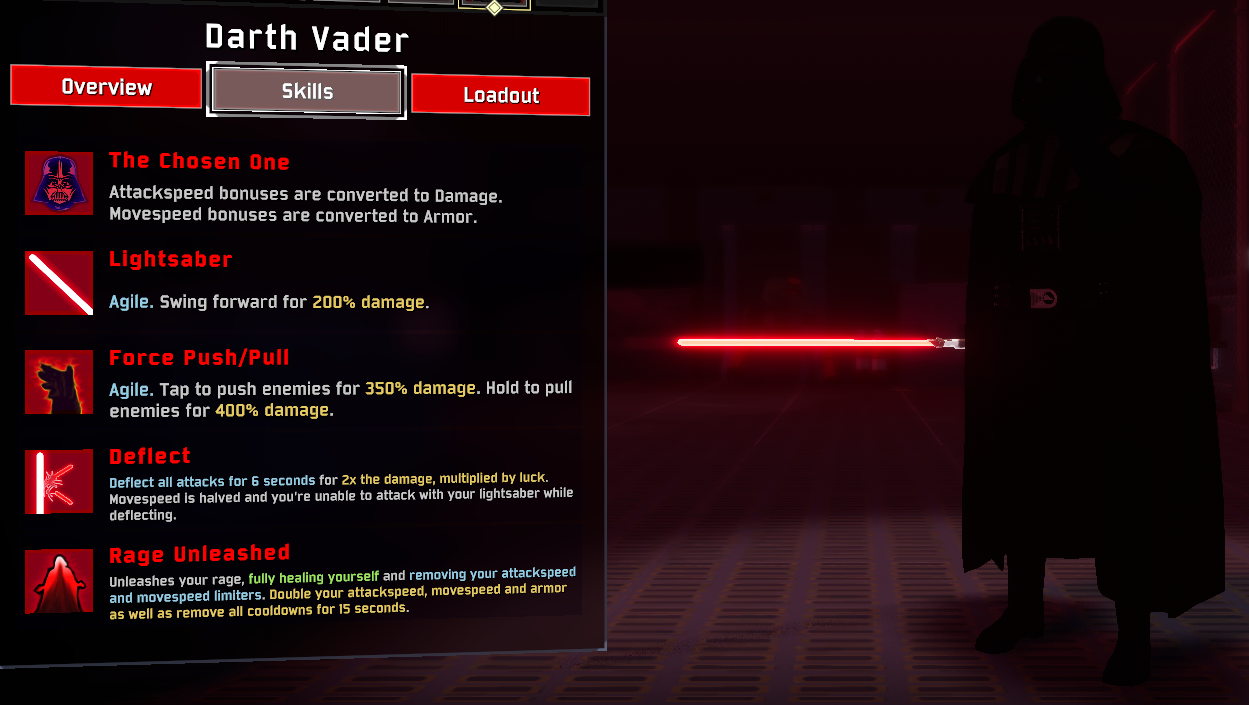
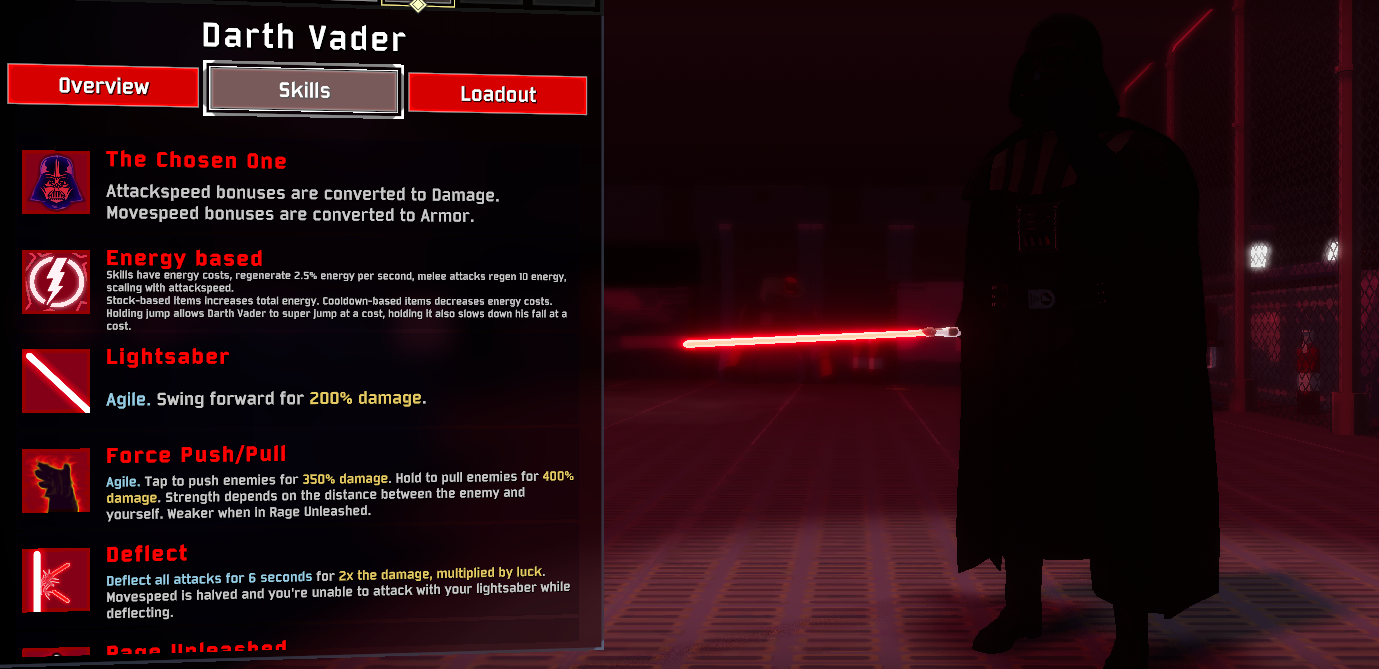
readme

diff --git a/Uploadstuff/README.md b/Uploadstuff/README.md
@@ -46,38 +46,25 @@ If you enjoy our work, support us on Ko-fi!
 
 ## Latest Changelog, Next update(s)
 
-- 1.1.2
-  - Entrance theme no longer goes between left and right ears, also ends when character is changed.
-  - Death sound should now play.
-  - Added exhale for his breathing, adjusted time for breath sounds from 5s -> 3s as it now includes inhaling and exhaling.
-  - Networked Force push/pull so non-hosts can use it in multiplayer.
-  - Added clarity on how Force push/pull works- the strength depends on the distance between yourself and the enemy. It is also weaker when in Rage Unleashed. 
-  - Force push/pull now properly pulls all enemies towards you and away from you with the correct height value, previously it was a limited height change. 
-  - Force push/pull animation timing matches the effect.
-- 1.1.1
-  - Updated description for primary to properly say reduces all cooldowns by 1 second.
-  - Updated readme.
-- 1.1.0
-  - Changed grip to Darth Vader's grip.
-  - Melee attacks now reduce cooldown for all skills (this is to exemplify his juggernaut playstlye), in exchange his skills have longer cooldowns. If you're constantly attacking the skills have lower cooldowns than previous updates.
-    - Force push/pull: 3s -> 5s. 
-    - Deflect: 6s -> 10s.
-    - Rage Unleashed: 90s -> 125s.
-  - Force push/pull damage coeffecient buffed from 200%/250% to 350%/400%, increased force strength.
-  - Updated impact effect when hitting enemies with the lightsaber.
-  - Fixed Darksaber being invisible from 1.0.1.
-- 1.0.1
-  - Fixed the Shield Overlay from being extremely intrusive.
-- 1.0.0 
-  - Initial release.
+- 2.0.0
+  - NEW PASSIVE- ENERGY PASSIVE! (MOD COMMISSION/IDEA BY Delta the Wize#5938)
+    - Naturally regen 2.5% of energy per second, Melee attacks also regenerate energy (Flat 10, scaling with attackspeed even when not in rage mode, less energy gained while in rage mode).
+    - Rage mode now requires max energy, will drain constantly when activated until it reaches 0.
+    - Energy capacity increases per level, as well with stock based items (backup magazine, hardlight afterburner).
+    - Skills cost energy. Deflect is now active while holding down the button rather than a duration as each 'hit' costs 20 energy to deflect.
+    - Energy cost decreases with cooldown based items (purity, alien head).
+    - Holding down jump while on the ground does a super jump, costing energy. Holding down jump while falling slows down falling, costing energy.
+  - Cooldown based Darth Vader is still an option.
+    - Cooldown based also now has in-built slow-falling, holding jump will stop the slow-fall, falling normally.
+
 
 - Next update(s)
     - Bug fixes. 
 
-<img src="https://user-images.githubusercontent.com/93917577/182024358-cb346d5c-5066-456b-9e5d-3c0babb9b1ea.PNG">
+<img src="https://user-images.githubusercontent.com/93917577/189161332-af9c5572-bab5-4c42-8b92-eb7830d70dbe.PNG">
 
 ## Known Issues
-
+- Stuttering when using Aetherium.
 
 ## Overview
     Darth Vader is a Juggernaut, with limited mobility but high damage and survivability in close range.
@@ -107,27 +94,39 @@ If you enjoy our work, support us on Ko-fi!
     <td></td>
   </tr>
   <tr>
+    <td>Passive<br><br>Energy<br>Based</td>
+    <td><img src="https://user-images.githubusercontent.com/93917577/189158817-1bf3bf58-d897-4314-a582-98b488e0f47c.png" width="100" height="100"></td>
+    <td>Skills now cost energy, no cooldowns.<br>Naturally regenerate 2.5% energy per second.<br>Hold jump to super jump.<br>Hold jump to slow-fall.</td>
+    <td></td>
+  </tr>
+  <tr>
+    <td>Passive<br><br>Cooldown <br>Based</td>
+    <td><img src="https://user-images.githubusercontent.com/93917577/189158828-faf81450-4255-48b9-ac2c-5c5a2ec49a50.png" width="100" height="100"></td>
+    <td>Skills have cooldowns.<br>Naturally slow-fall, hold jump to stop slow-falling.<br></td>
+    <td></td>
+  </tr>
+  <tr>
     <td>Primary<br><br>Lightsaber</td>
     <td><img src="https://user-images.githubusercontent.com/93917577/180753381-a09e0e66-9020-4473-8d16-d649398fcf79.png" alt="Image" width="100" height="100"></td>
-    <td>Swing forward for 200% damage. <br>Hitting enemies reduces all cooldowns by 1 second.</td>
+    <td>Swing forward for 200% damage.<br>Hitting enemies reduces cooldowns by 1 second per hit.<br>Hitting enemies regen 10 energy per hit, scaling with attack speed.</td>
     <td>Proc: 1</td>
   </tr>
   <tr>
     <td>Secondary<br><br>Force <br>Push/Pull<br></td>
     <td><img src="https://user-images.githubusercontent.com/93917577/180753373-e4a16ae3-a89b-42b8-bb3d-0a88a51c4efe.png" alt="Image" width="100" height="100"></td>
-    <td>Tap to push enemies for 350% damage.<br>Hold to pull enemies for 400% damage.<br>Strength depends on the distance between the enemy and yourself.<br>Weaker when in Rage Unleashed.</td>
+    <td>Tap to push enemies for 350% damage.<br>Hold to pull enemies for 400% damage.<br><br>Costs 30 energy.</td>
     <td>Proc: 1<br>CD: 5s</td>
   </tr>
   <tr>
     <td>Utility<br><br>Deflect</td>
     <td><img src="https://user-images.githubusercontent.com/93917577/180753370-704b0353-592d-473c-999c-ef218b38a0dd.png" alt="Image" width="100" height="100"></td>
-    <td>Deflect all attacks for 6 seconds,<br>for 2x the damage, multiplied by luck.<br>Movespeed is halved, and you're unable<br>to attack with your lightsaber.</td>
+    <td>Deflect all attacks for 6 seconds,<br>for 2x the damage, multiplied by luck.<br>Movespeed is halved, and you're unable<br>to attack with your lightsaber.<br>In energy mode, holding the button toggles deflect. <br>Deflecting a hit costs 20 energy.</td>
     <td>Proc: 1<br>CD: 10s</td>
   </tr>
   <tr>
     <td>Special<br><br>Rage<br>Unleashed</td>
     <td><img src="https://user-images.githubusercontent.com/93917577/180753387-4c98d23d-6b29-4cc1-9fc6-fdc38caf1d16.png" alt="Image" width="100" height="100"></td>
-    <td>Unleashes your rage, fully healing yourself<br>and removing your Attackspeed and<br>Movespeed limiters.<br>Double your Attackspeed, Movespeed and<br>Armor as well as remove all cooldowns for<br>15 seconds. </td>
+    <td>Unleashes your rage, fully healing yourself<br>and removing your Attackspeed and<br>Movespeed limiters.<br>Double your Attackspeed, Movespeed and<br>Armor as well as remove all cooldowns for<br>15 seconds. <br>In energy mode, requires max energy, drains over time and stops at 0 energy.</td>
     <td>CD: 125s</td>
   </tr>
 </tbody>
@@ -162,8 +161,30 @@ These stats are prone to change.
 <details>
 <summary>Click to expand previous patch notes:</summary>
 
+- 1.1.2
+  - Entrance theme no longer goes between left and right ears, also ends when character is changed.
+  - Death sound should now play.
+  - Added exhale for his breathing, adjusted time for breath sounds from 5s -> 3s as it now includes inhaling and exhaling.
+  - Networked Force push/pull so non-hosts can use it in multiplayer.
+  - Added clarity on how Force push/pull works- the strength depends on the distance between yourself and the enemy. It is also weaker when in Rage Unleashed. 
+  - Force push/pull now properly pulls all enemies towards you and away from you with the correct height value, previously it was a limited height change. 
+  - Force push/pull animation timing matches the effect.
+- 1.1.1
+  - Updated description for primary to properly say reduces all cooldowns by 1 second.
+  - Updated readme.
+- 1.1.0
+  - Changed grip to Darth Vader's grip.
+  - Melee attacks now reduce cooldown for all skills (this is to exemplify his juggernaut playstlye), in exchange his skills have longer cooldowns. If you're constantly attacking the skills have lower cooldowns than previous updates.
+    - Force push/pull: 3s -> 5s. 
+    - Deflect: 6s -> 10s.
+    - Rage Unleashed: 90s -> 125s.
+  - Force push/pull damage coeffecient buffed from 200%/250% to 350%/400%, increased force strength.
+  - Updated impact effect when hitting enemies with the lightsaber.
+  - Fixed Darksaber being invisible from 1.0.1.
+- 1.0.1
+  - Fixed the Shield Overlay from being extremely intrusive.
 - 1.0.0 
-    - Initial release.
+  - Initial release.
 
 </details>
 
